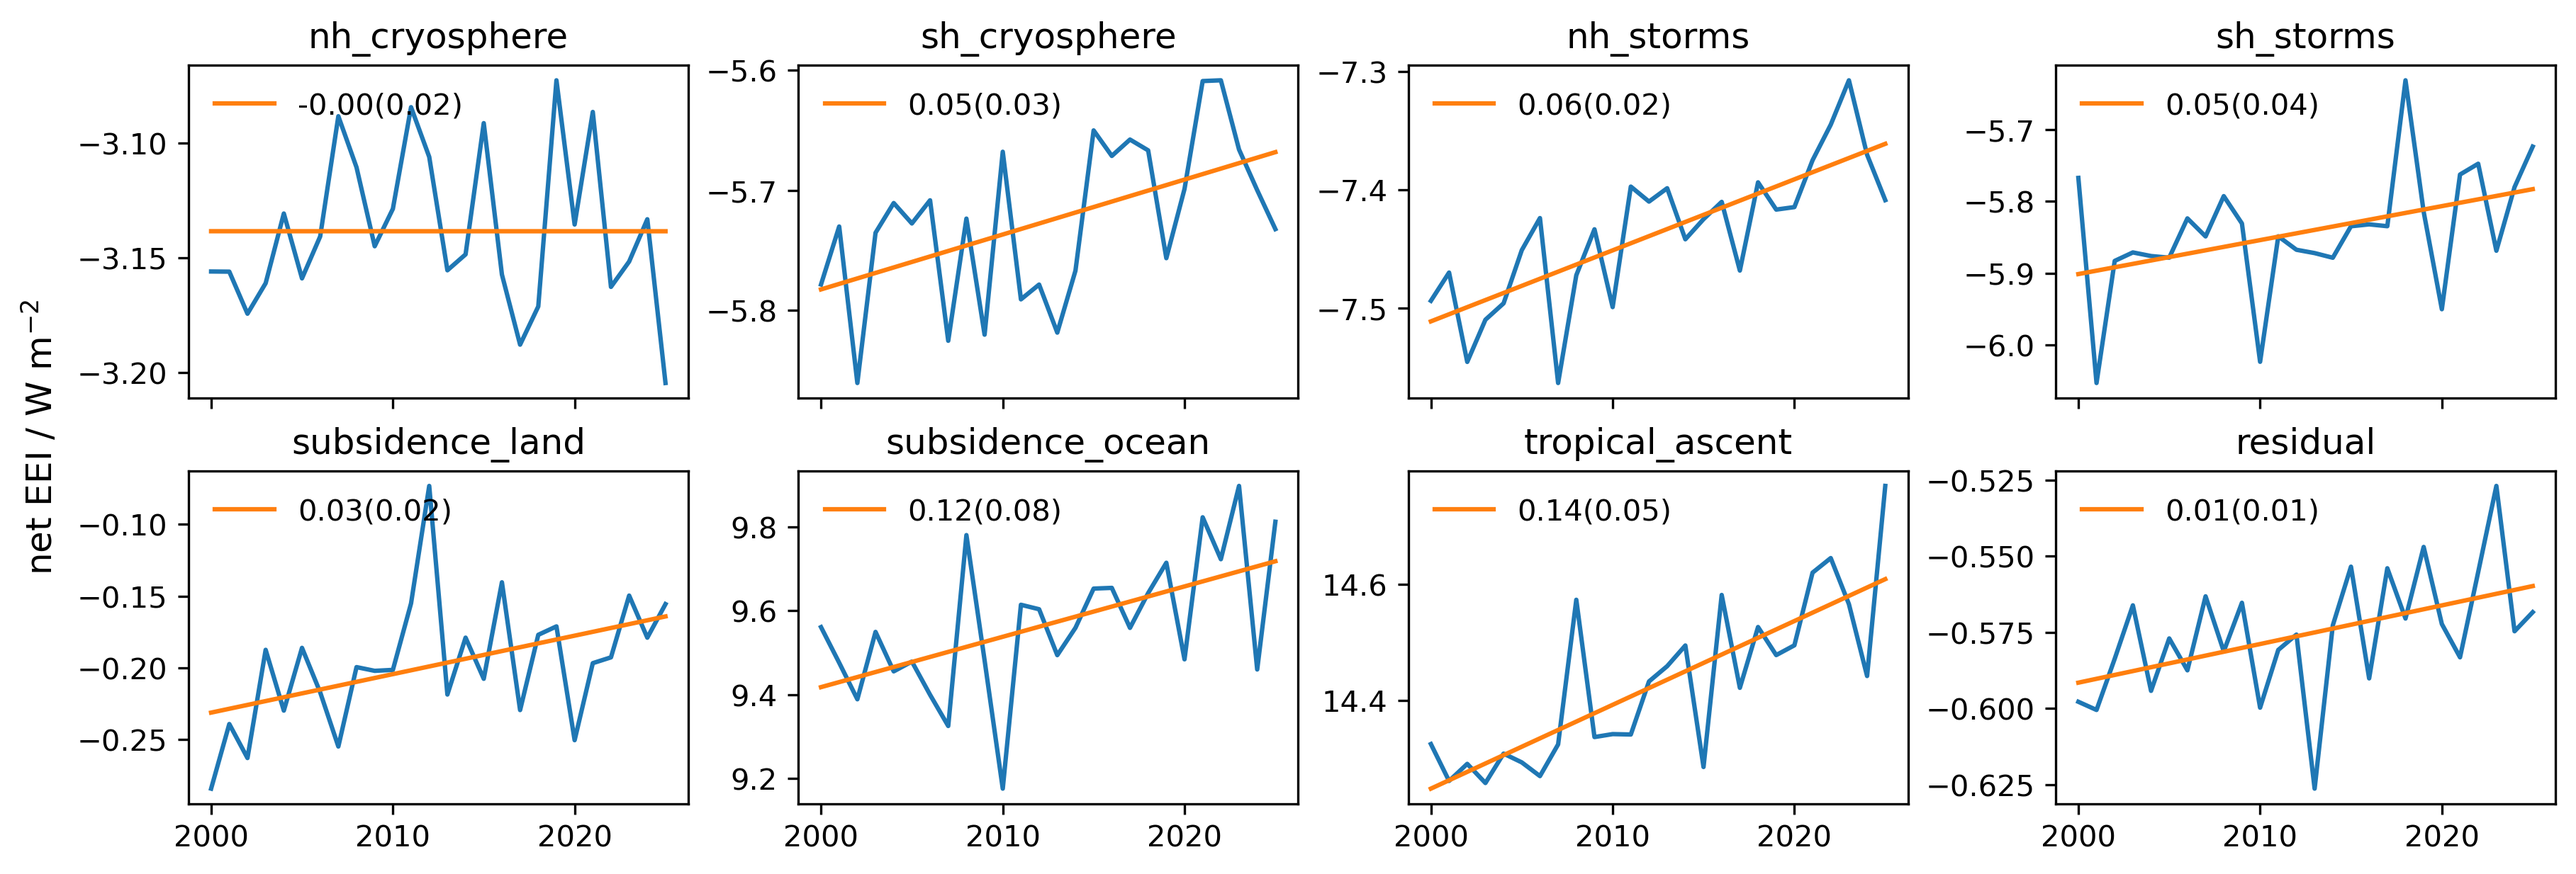
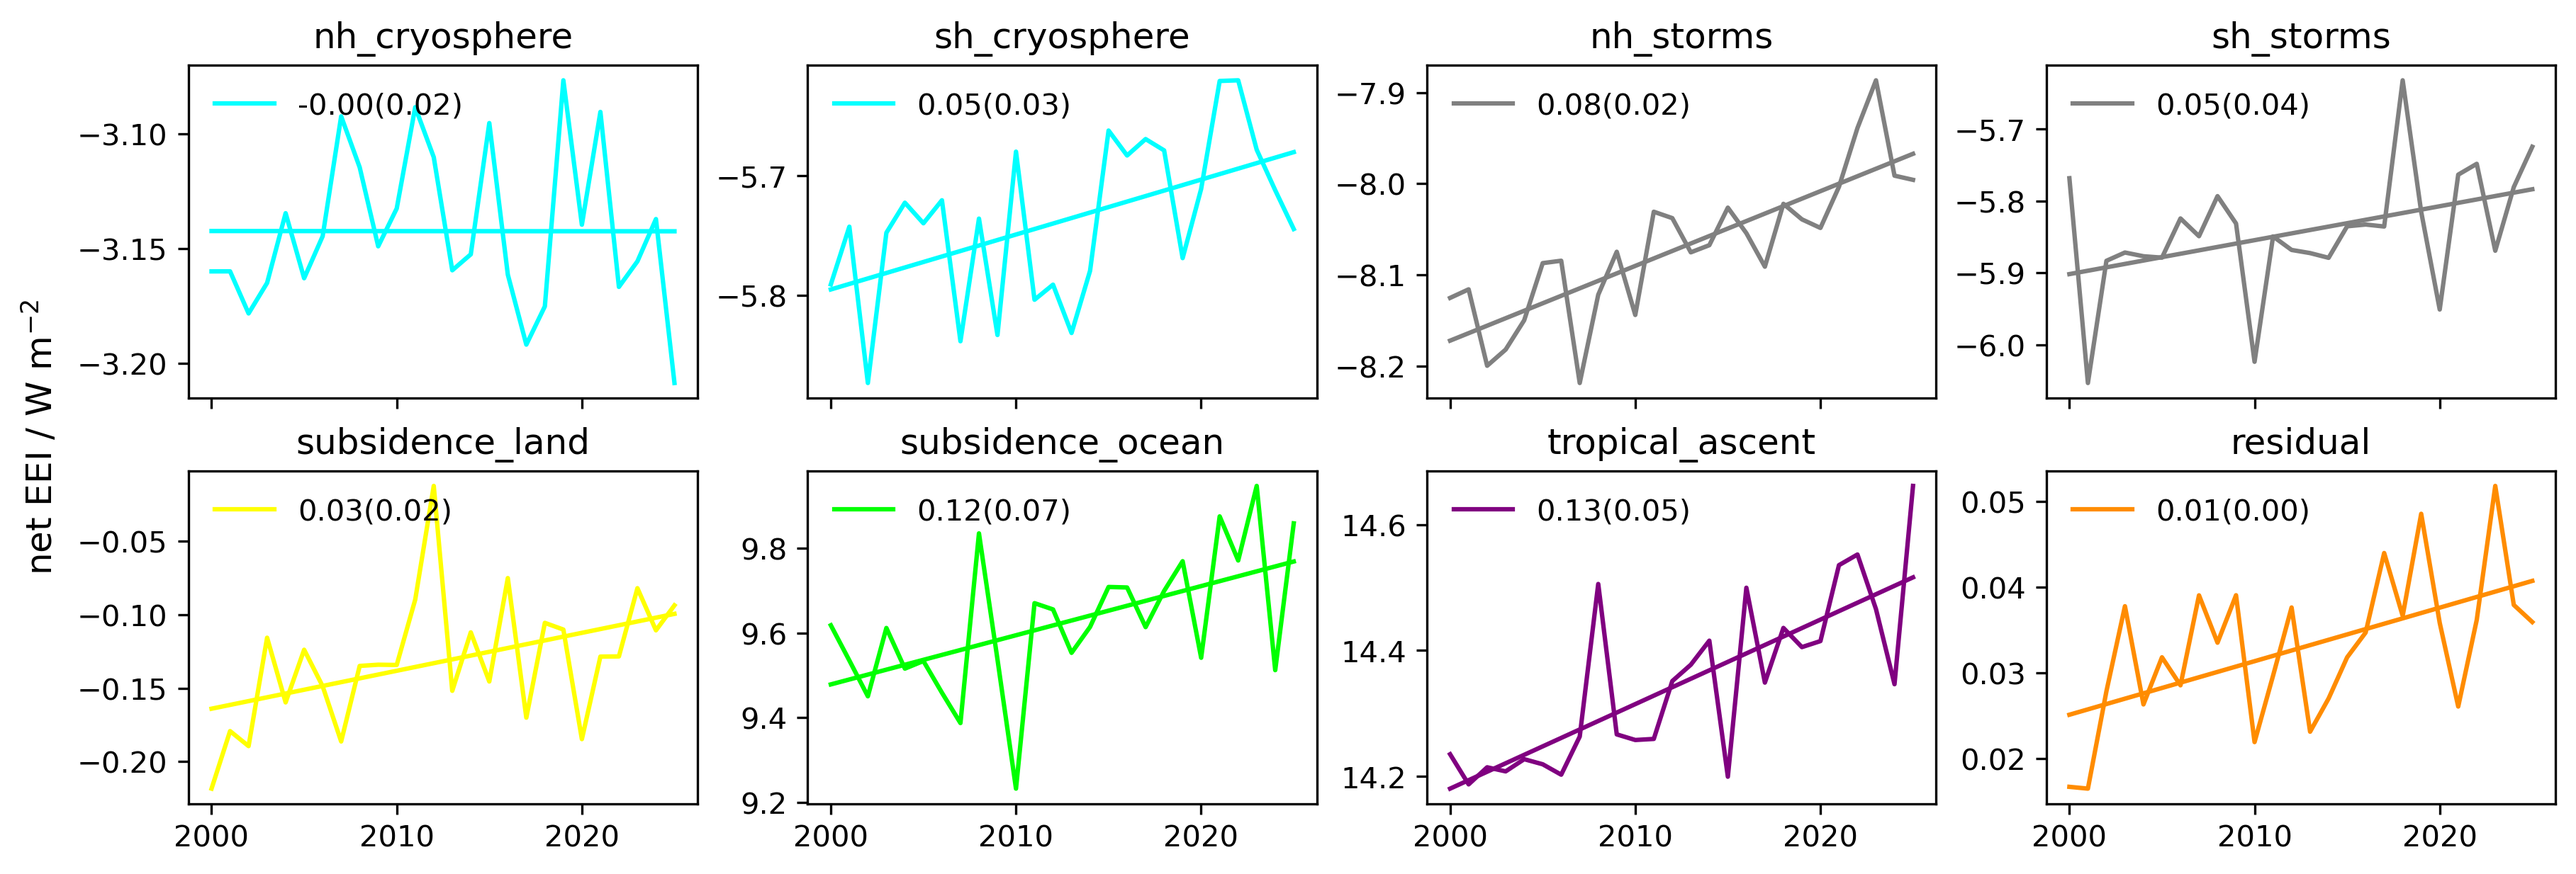
update this fig

diff --git a/make_figs/regime_timeseries.py b/make_figs/regime_timeseries.py
@@ -1,5 +1,6 @@
 import xarray as xr
 import matplotlib.pyplot as plt
+from utils.plotting import colors
 
 PLOT_VAR = "net"
 
@@ -8,8 +9,8 @@ fig,axes=plt.subplots(2,4,figsize=(12,4),sharex=True,constrained_layout=True)
 for i,r in enumerate(ds.regime):
     ax=axes.flatten()[i]
     da = ds.sel(season="ANN", regime=r)
-    da[PLOT_VAR].plot(ax=ax)
-    da[PLOT_VAR+"_fit"].plot(ax=ax, label=f"{da[PLOT_VAR+"_slope_mean"]:.2f}({da[PLOT_VAR+"_slope_ci"]:.2f})")
+    da[PLOT_VAR].plot(ax=ax, color=colors[str(r.values)])
+    da[PLOT_VAR+"_fit"].plot(ax=ax, color=colors[str(r.values)], label=f"{da[PLOT_VAR+"_slope_mean"]:.2f}({da[PLOT_VAR+"_slope_ci"]:.2f})")
     ax.set_title(r.values)
     ax.set_xlabel("")
     ax.set_ylabel("")
